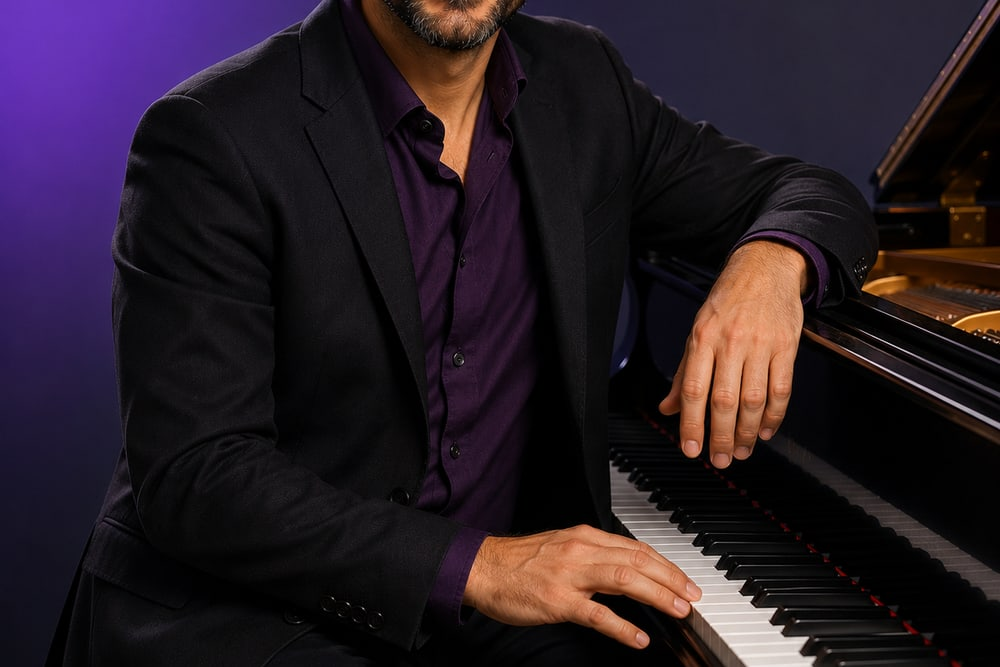
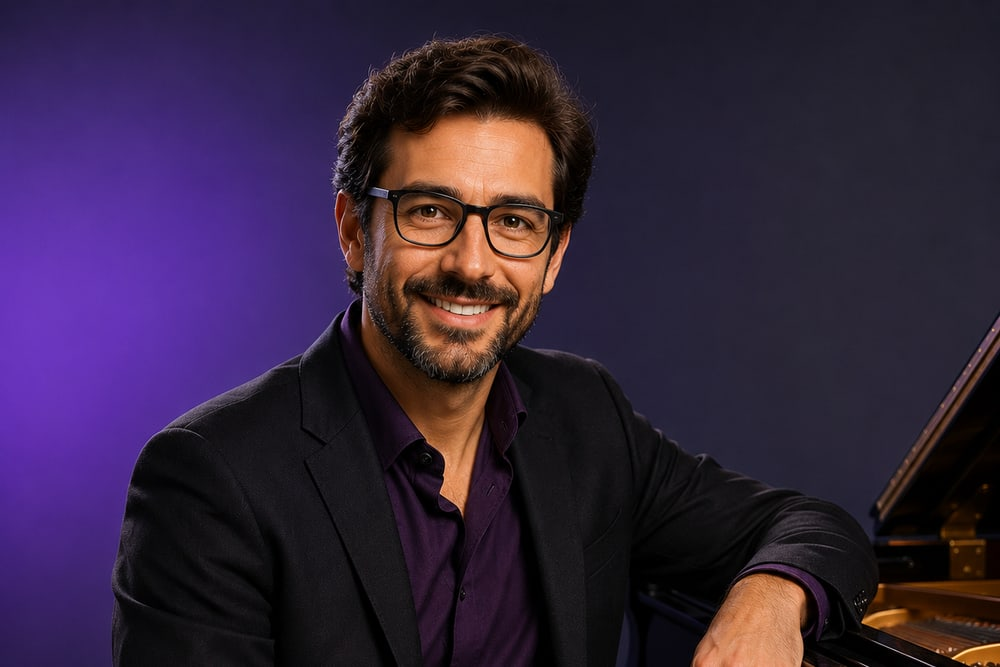
feat: hero grande con imagen de fondo + banda parallax (fondo fijo)
- HeroSection: imagen de fondo a pantalla completa (escena de estudio) con
  overlay de marca y texto a la izquierda
- Nueva BandaInspiracion con fondo fijo (efecto parallax al hacer scroll)
- Fondos recortados desde las imágenes existentes (sin el texto sobreimpreso)
- Fix: foto de "Piano para principiantes" y retratos de profesores anclados
  arriba para no cortar las cabezas

https://claude.ai/code/session_01WjYMohywtJer47DM5YVpiG

diff --git a/components/home/HeroSection.tsx b/components/home/HeroSection.tsx
@@ -1,19 +1,28 @@
 import Link from "next/link";
+import Image from "next/image";
 
 export function HeroSection() {
   return (
-    <section className="relative overflow-hidden bg-gradient-marca text-white">
-      <div className="absolute inset-0 fondo-pentagrama opacity-40" aria-hidden="true" />
-      {/* notas decorativas */}
-      <div className="pointer-events-none absolute right-10 top-10 select-none text-6xl opacity-20" aria-hidden="true">♪</div>
-      <div className="pointer-events-none absolute bottom-10 right-1/3 select-none text-8xl opacity-10" aria-hidden="true">♫</div>
+    <section className="relative isolate overflow-hidden text-white">
+      {/* Imagen de fondo grande */}
+      <Image
+        src="/images/fondos/hero-home.jpg"
+        alt=""
+        fill
+        priority
+        sizes="100vw"
+        className="-z-20 object-cover"
+      />
+      {/* Overlay de marca (más opaco a la izquierda para legibilidad del texto) */}
+      <div className="absolute inset-0 -z-10 bg-gradient-to-r from-marca-purpura/95 via-marca-purpura/80 to-marca-oscuro/40" />
+      <div className="pointer-events-none absolute inset-0 -z-10 fondo-pentagrama opacity-20" aria-hidden="true" />
 
-      <div className="contenedor relative grid items-center gap-10 py-20 md:grid-cols-2 md:py-28">
-        <div>
+      <div className="contenedor relative grid items-center py-24 md:py-32">
+        <div className="max-w-2xl">
           <span className="chip mb-5 bg-white/15 text-marca-dorado">
             🎵 Clases en vivo + lecciones grabadas
           </span>
-          <h1 className="font-display text-4xl font-bold leading-tight md:text-5xl">
+          <h1 className="font-display text-4xl font-bold leading-tight drop-shadow md:text-6xl">
             Aprende música<br />desde cero
           </h1>
           <p className="mt-5 max-w-md text-lg text-white/90">
@@ -28,30 +37,10 @@ export function HeroSection() {
               Ver clases en vivo
             </Link>
           </div>
-          <div className="mt-8 flex items-center gap-6 text-sm text-white/80">
+          <div className="mt-10 flex items-center gap-8 text-sm text-white/80">
             <div><span className="font-display text-2xl font-bold text-white">7</span><br />instrumentos</div>
             <div><span className="font-display text-2xl font-bold text-white">+2.500</span><br />alumnos</div>
             <div><span className="font-display text-2xl font-bold text-white">4,9★</span><br />valoración</div>
-          </div>
-        </div>
-
-        <div className="relative hidden md:block">
-          <div className="grid grid-cols-2 gap-4">
-            {[
-              { icono: "🎸", txt: "Guitarra" },
-              { icono: "🎹", txt: "Piano" },
-              { icono: "🎤", txt: "Voz" },
-              { icono: "🥁", txt: "Batería" },
-            ].map((x, i) => (
-              <div
-                key={x.txt}
-                className={`rounded-2xl bg-white/10 p-6 backdrop-blur ${i % 2 ? "translate-y-6" : ""}`}
-              >
-                <div className="text-4xl">{x.icono}</div>
-                <div className="mt-3 font-semibold">{x.txt}</div>
-                <div className="text-sm text-white/70">Desde iniciación</div>
-              </div>
-            ))}
           </div>
         </div>
       </div>

diff --git a/components/home/BandaInspiracion.tsx b/components/home/BandaInspiracion.tsx
@@ -1,0 +1,30 @@
+import Link from "next/link";
+
+/**
+ * Banda con fondo fijo (efecto parallax al hacer scroll).
+ * El fondo permanece fijo mientras el contenido se desplaza por encima.
+ */
+export function BandaInspiracion() {
+  return (
+    <section
+      className="relative bg-marca-oscuro bg-fixed bg-cover bg-center"
+      style={{ backgroundImage: "url('/images/fondos/estudio-piano.jpg')" }}
+    >
+      <div className="absolute inset-0 bg-marca-oscuro/75" />
+      <div className="contenedor relative py-28 text-center text-white">
+        <p className="mx-auto max-w-3xl font-display text-2xl font-semibold leading-snug md:text-4xl">
+          “La música es el idioma del alma.<br />Nosotros te enseñamos a hablarlo.”
+        </p>
+        <p className="mx-auto mt-5 max-w-xl text-white/80">
+          Únete a más de 2.500 alumnos que ya están aprendiendo a su ritmo, con profesores reales
+          y en comunidad.
+        </p>
+        <div className="mt-8">
+          <Link href="/cursos" className="btn-dorado">
+            Empieza tu viaje musical
+          </Link>
+        </div>
+      </div>
+    </section>
+  );
+}

diff --git a/app/page.tsx b/app/page.tsx
@@ -1,6 +1,7 @@
 import { HeroSection } from "@/components/home/HeroSection";
 import { CaracteristicasSection } from "@/components/home/CaracteristicasSection";
 import { CursosDestacados } from "@/components/home/CursosDestacados";
+import { BandaInspiracion } from "@/components/home/BandaInspiracion";
 import { ProfesoresDestacados } from "@/components/home/ProfesoresDestacados";
 import { TestimoniosAlumnos } from "@/components/home/TestimoniosAlumnos";
 import { PlanesPrecios } from "@/components/home/PlanesPrecios";
@@ -12,6 +13,7 @@ export default function HomePage() {
       <HeroSection />
       <CaracteristicasSection />
       <CursosDestacados />
+      <BandaInspiracion />
       <ProfesoresDestacados />
       <TestimoniosAlumnos />
       <PlanesPrecios />